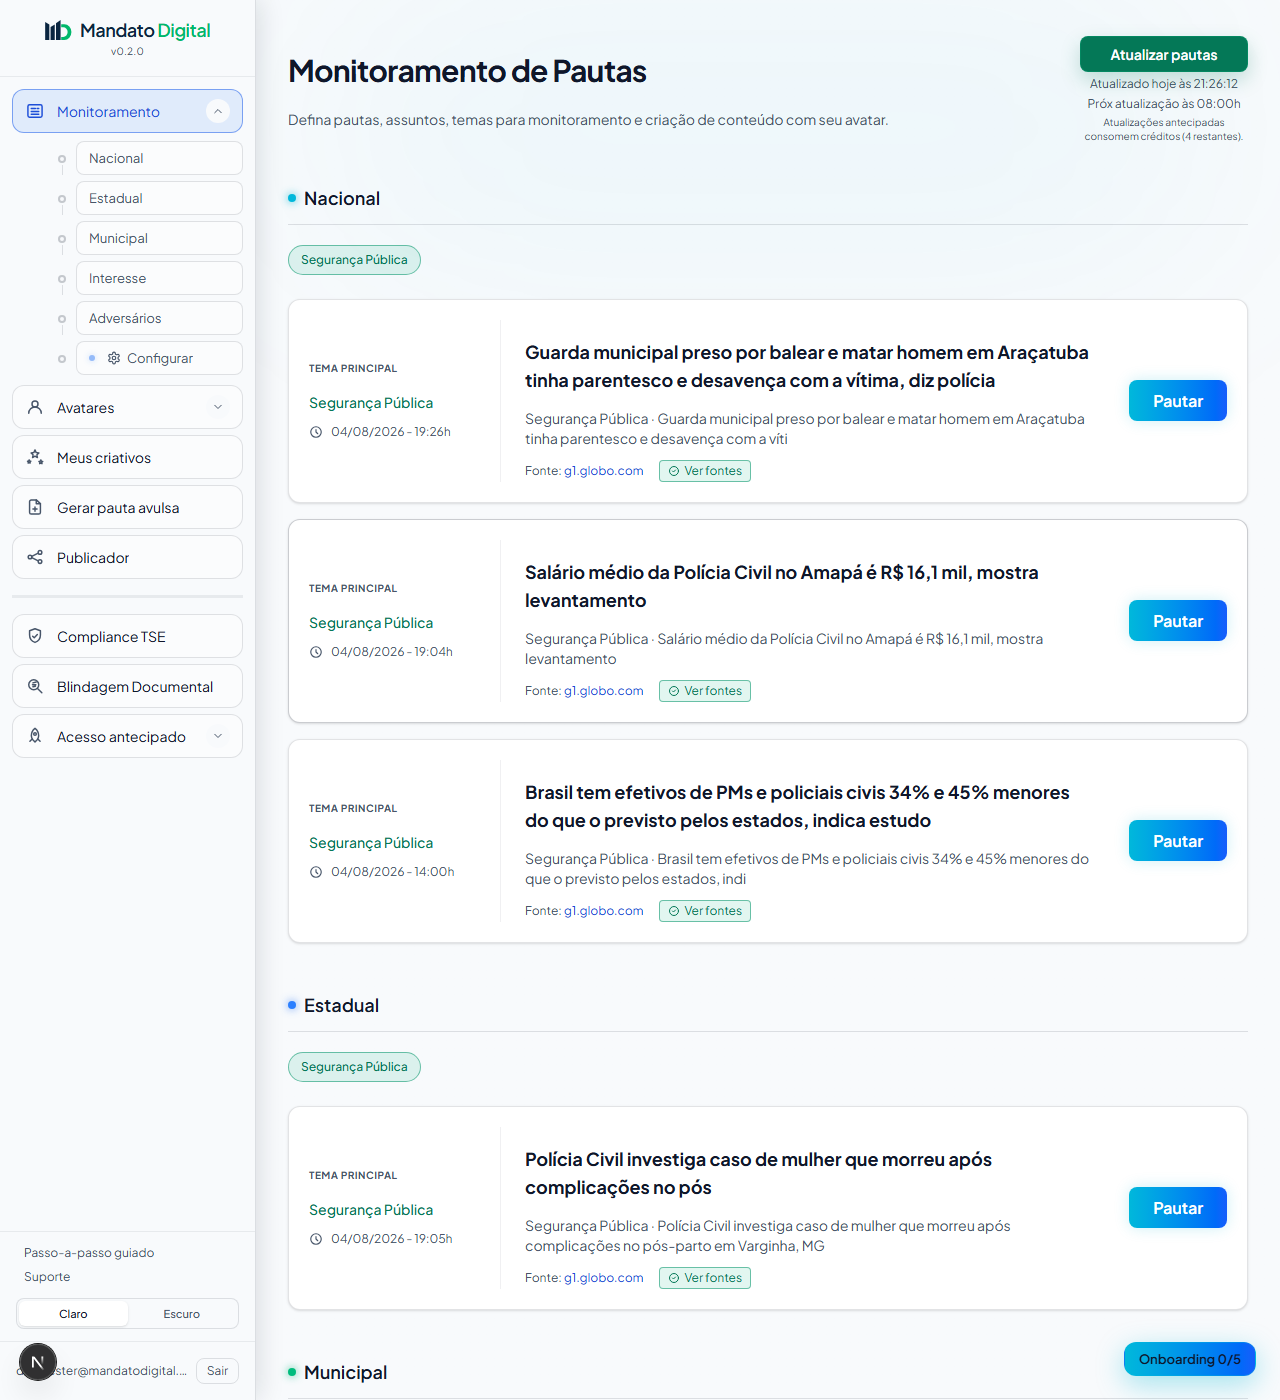
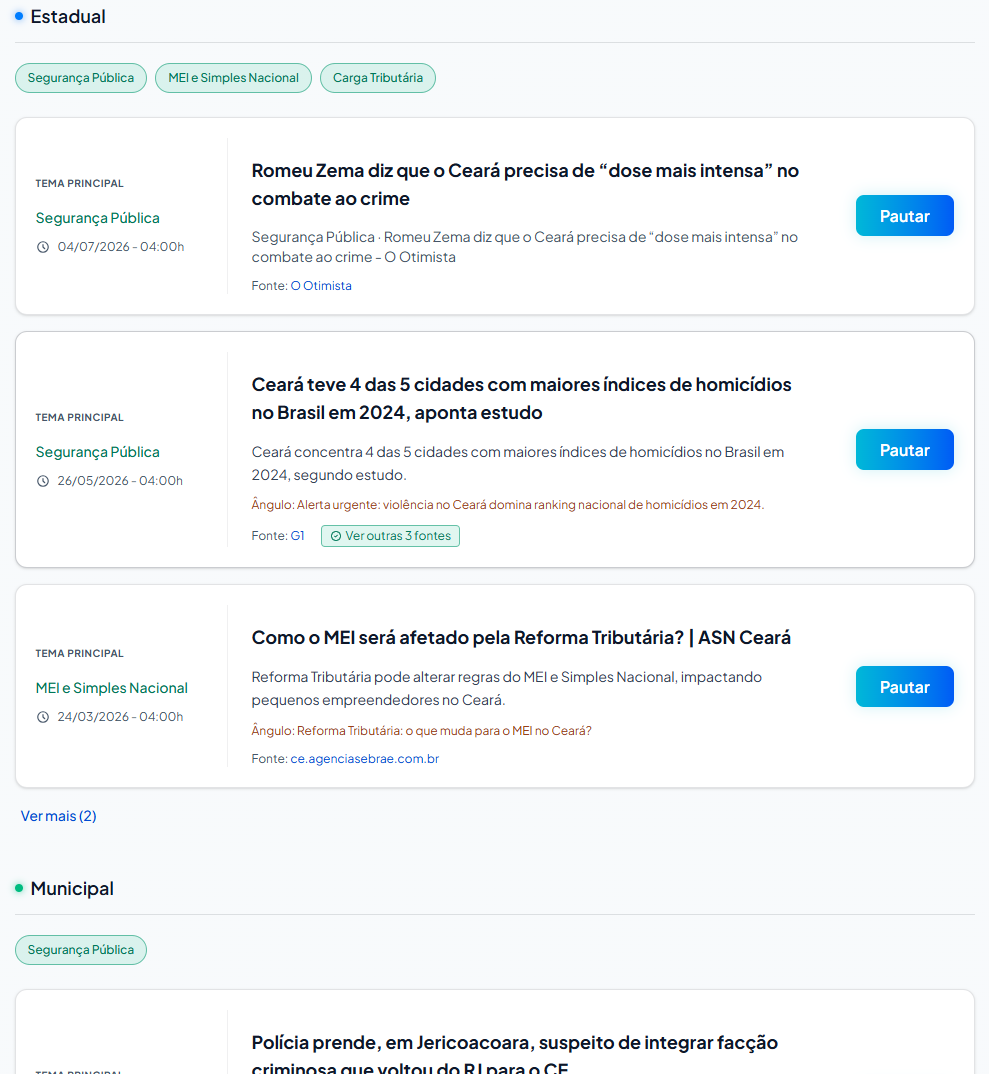
fix(vozdelas): atualiza prints de provas e alinha layout
- Substitui print-compliance.png e print-monitoramento.png por capturas maiores/atuais
- Alinha subtitulos (intro e secoes) na mesma largura das imagens abaixo
- Centraliza os botoes do menu de ancoras
- Renomeia CTA "Conheca a solucao" para "Conheca o ecossistema" na home

diff --git a/public/vozdelas/provas.html b/public/vozdelas/provas.html
@@ -90,9 +90,9 @@
 
   .intro { padding: 60px 0 20px; }
   .intro h1 { font-size: clamp(32px, 4.6vw, 48px); font-weight: 800; letter-spacing: -1.2px; margin: 18px 0 14px; text-wrap: balance; }
-  .intro p { font-size: 16.5px; line-height: 1.6; color: var(--ink-soft); max-width: 56ch; margin: 0; }
+  .intro p { font-size: 16.5px; line-height: 1.6; color: var(--ink-soft); max-width: 1000px; margin: 0; }
 
-  .toc { display: flex; flex-wrap: wrap; gap: 10px; padding: 28px 0 64px; }
+  .toc { display: flex; flex-wrap: wrap; justify-content: center; gap: 10px; padding: 28px 0 64px; }
   .toc a {
     font-size: 12.5px; font-weight: 700; text-decoration: none; color: var(--ink-soft);
     border: 1px solid var(--line); padding: 8px 14px; border-radius: 999px; transition: color .15s ease, border-color .15s ease;
@@ -111,7 +111,7 @@
   :root[data-theme="dark"] .pair-tag { color: var(--accent); }
   @media (prefers-color-scheme: dark) { :root:not([data-theme="light"]) .pair-tag { color: var(--accent); } }
   .block h2 { font-size: clamp(24px, 3vw, 32px); font-weight: 800; letter-spacing: -0.7px; margin: 0 0 14px; text-wrap: balance; }
-  .block p.body { font-size: 15.5px; line-height: 1.65; color: var(--ink-soft); max-width: 64ch; margin: 0 0 32px; }
+  .block p.body { font-size: 15.5px; line-height: 1.65; color: var(--ink-soft); max-width: 1000px; margin: 0 0 32px; }
 
   .detail-shot {
     border-radius: var(--radius-lg); overflow: hidden; border: 1px solid var(--line);

diff --git a/src/lib/marketing/home-content.ts b/src/lib/marketing/home-content.ts
@@ -118,5 +118,5 @@ export const homeEcosystemSummary = {
     "Auditor: revisa, verifica fontes e garante qualidade.",
     "Distribuidor: publica nas redes sociais na hora certa.",
   ],
-  ctaLabel: "Conheça a solução",
+  ctaLabel: "Conheça o ecossistema",
 } as const;
